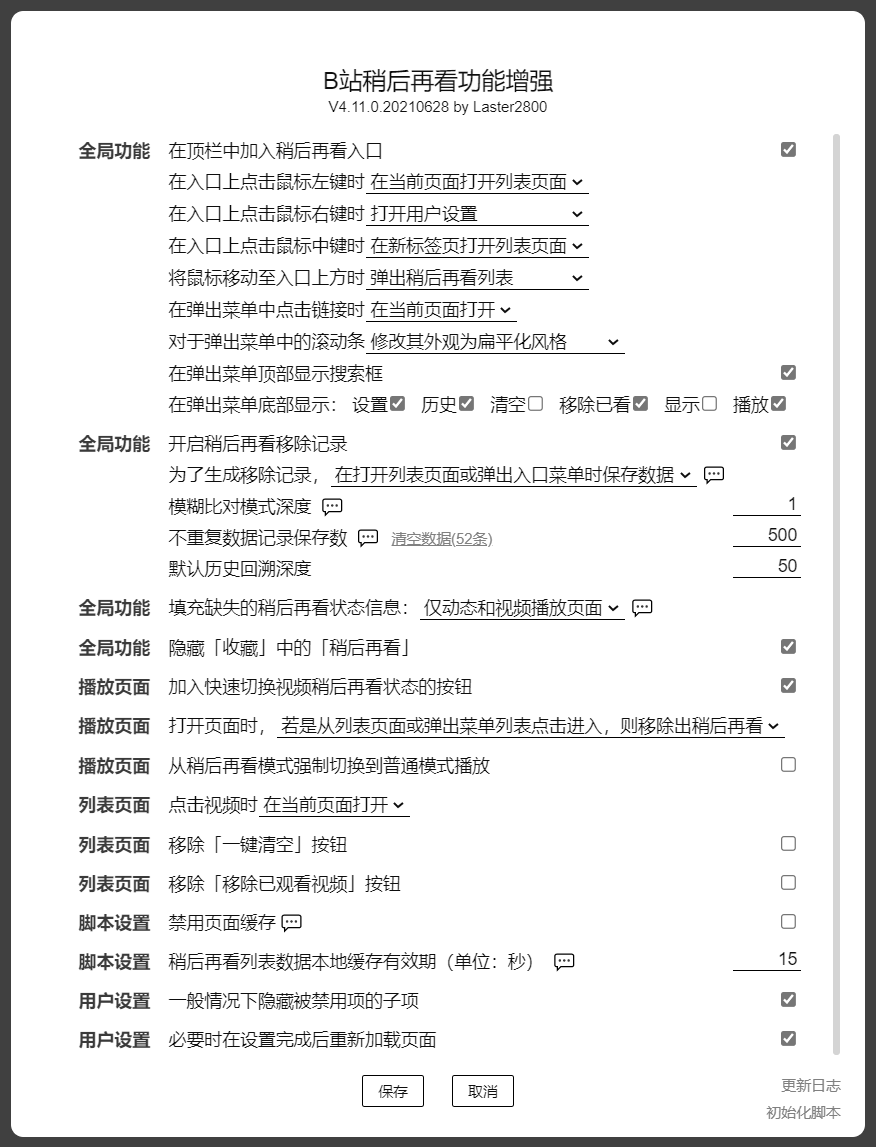
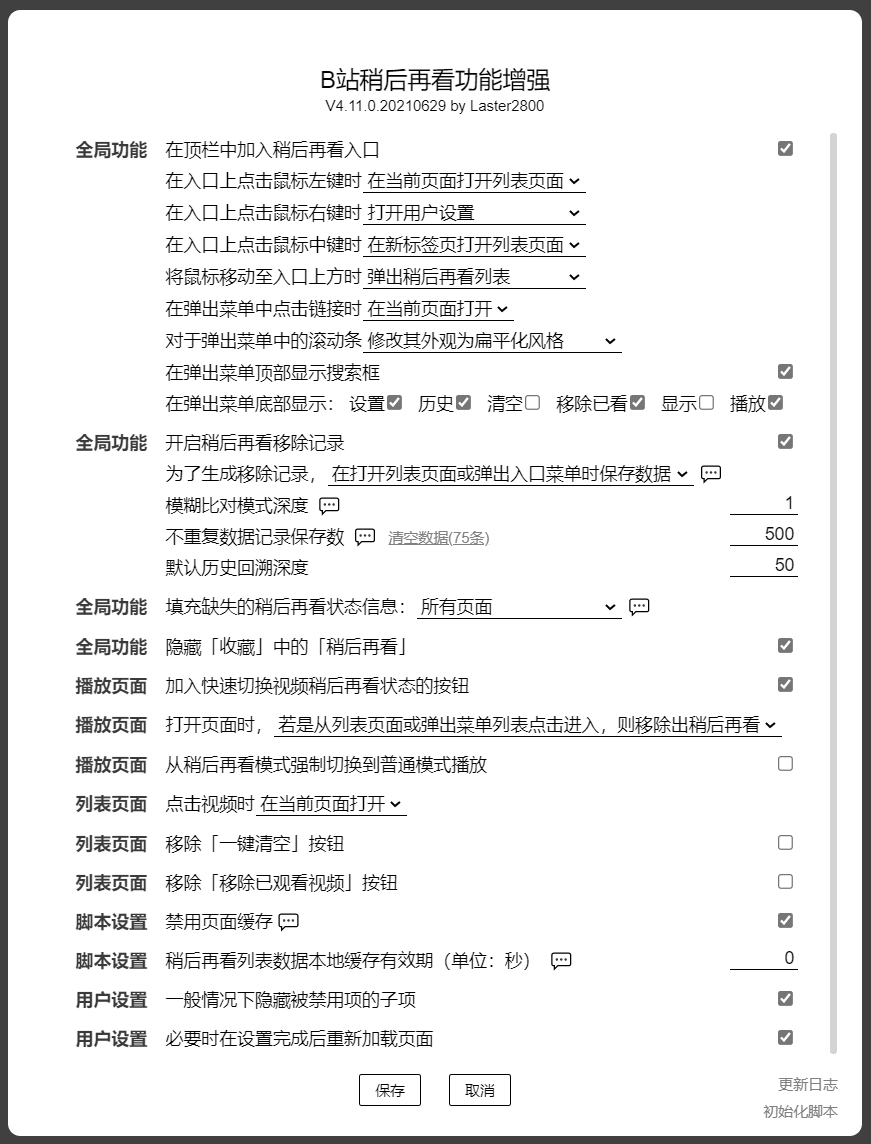
B站稍后再看功能增强 4.11.0.20210629
* API：升级至 V1.0，大幅优化元素等待逻辑。
* 脚本：优化部分监听器的处理。
* 脚本：优化脚本菜单运行流程。
* 脚本：优化更新处理机制。
* 代码：借助新版元素等待 API 进行大幅简化。

diff --git a/script/BilibiliWatchlaterPlus/BilibiliWatchlaterPlus.js b/script/BilibiliWatchlaterPlus/BilibiliWatchlaterPlus.js
@@ -1,6 +1,6 @@
 // ==UserScript==
 // @name            B站稍后再看功能增强
-// @version         4.11.0a.20210628
+// @version         4.11.0.20210629
 // @namespace       laster2800
 // @author          Laster2800
 // @description     与稍后再看功能相关，一切你能想到和想不到的功能
@@ -18,10 +18,10 @@
 // @exclude         *://t.bilibili.com/h5/dynamic/specification
 // @exclude         *://www.bilibili.com/page-proxy/game-nav.html
 // @exclude         /.*:\/\/.*:\/\/.*/
-// @require         https://greasyfork.org/scripts/409641-api/code/API.js?version=944165
+// @require         https://greasyfork.org/scripts/409641-userscriptapi/code/UserscriptAPI.js?version=945083
 // @grant           GM_addStyle
-// @grant           GM_xmlhttpRequest
 // @grant           GM_registerMenuCommand
+// @grant           GM_xmlhttpRequest
 // @grant           GM_setValue
 // @grant           GM_getValue
 // @grant           GM_deleteValue
@@ -374,8 +374,8 @@
     },
   }
 
-  /* global API */
-  const api = new API({
+  /* global UserscriptAPI */
+  const api = new UserscriptAPI({
     id: gm.id,
     label: GM_info.script.name,
     fadeTime: gm.const.fadeTime,
@@ -2166,7 +2166,7 @@
      */
     addHeaderButton() {
       const _self = this
-      api.wait.waitForElementLoaded('.user-con.signin').then(header => {
+      api.wait.waitQuerySelector('.user-con.signin').then(header => {
         const collect = header.children[4]
         const watchlater = document.createElement('div')
         watchlater.className = 'item'
@@ -2692,16 +2692,16 @@
 
       /**
        * 填充动态页稍后再看状态
+       * @async
        */
-      const fillWatchlaterStatus_dynamic = () => {
-        const execute = async root => {
-          let videos
-          if (api.dom.containsClass(root, 'video-container')) {
-            videos = [root]
-          } else {
-            videos = root.querySelectorAll('.video-container')
-          }
-          for (const video of videos) {
+      const fillWatchlaterStatus_dynamic = async () => {
+        api.wait.executeAfterElementLoaded({
+          selector: '.video-container',
+          base: await api.wait.waitQuerySelector('.feed-card'),
+          multiple: true,
+          repeat: true,
+          timeout: 0,
+          callback: async video => {
             if (!video._fillWatchlaterStatus) {
               try {
                 // 这个 video 未必是最后加入到页面的视频卡片，有可能是作为 Vue 处理过程中的中转元素
@@ -2721,37 +2721,22 @@
                 api.logger.error(e)
               }
             }
-          }
-        }
-
-        execute(document.body)
-        const ob = new MutationObserver(async records => {
-          for (const record of records) {
-            for (const addedNode of record.addedNodes) {
-              if (addedNode instanceof HTMLElement) {
-                execute(addedNode)
-              }
-            }
-          }
-        })
-        ob.observe(document.body, {
-          childList: true,
-          subtree: true,
+          },
         })
       }
 
       /**
        * 填充动态入口菜单
+       * @async
        */
-      const fillWatchlaterStatus_dynamicMenu = () => {
-        const execute = async root => {
-          let videos
-          if (api.dom.containsClass(root, 'list-item')) {
-            videos = [root]
-          } else {
-            videos = root.querySelectorAll('.list-item')
-          }
-          for (const video of videos) {
+      const fillWatchlaterStatus_dynamicMenu = async () => {
+        api.wait.executeAfterElementLoaded({
+          selector: '.list-item',
+          base: await api.wait.waitQuerySelector('.video-list'),
+          multiple: true,
+          repeat: true,
+          timeout: 0,
+          callback: async video => {
             if (!video._fillWatchlaterStatus) {
               try {
                 // 这个 video 未必是最后加入到页面的视频卡片，有可能是作为 Vue 处理过程中的中转元素
@@ -2771,22 +2756,7 @@
                 api.logger.error(e)
               }
             }
-          }
-        }
-
-        execute(document.body)
-        const ob = new MutationObserver(async records => {
-          for (const record of records) {
-            for (const addedNode of record.addedNodes) {
-              if (addedNode instanceof HTMLElement) {
-                execute(addedNode)
-              }
-            }
-          }
-        })
-        ob.observe(document.body, {
-          childList: true,
-          subtree: true,
+          },
         })
       }
 
@@ -2794,14 +2764,13 @@
        * 填充稍后再看状态（通用逻辑）
        */
       const fillWatchlaterStatus_main = () => {
-        const execute = async root => {
-          let videos
-          if (api.dom.containsClass(root, ['watch-later-video', 'watch-later-trigger', 'watch-later', 'w-later'])) {
-            videos = [root]
-          } else {
-            videos = root.querySelectorAll('.watch-later-video, .watch-later-trigger, .watch-later, .w-later')
-          }
-          for (const video of videos) {
+        api.wait.executeAfterElementLoaded({
+          selector: '.watch-later-video, .watch-later-trigger, .watch-later, .w-later',
+          base: document.body,
+          multiple: true,
+          repeat: true,
+          timeout: 0,
+          callback: async video => {
             if (!video._fillWatchlaterStatus) {
               try {
                 video._fillWatchlaterStatus = true
@@ -2818,22 +2787,7 @@
                 api.logger.error(e)
               }
             }
-          }
-        }
-
-        execute(document.body)
-        const ob = new MutationObserver(async records => {
-          for (const record of records) {
-            for (const addedNode of record.addedNodes) {
-              if (addedNode instanceof HTMLElement) {
-                execute(addedNode)
-              }
-            }
-          }
-        })
-        ob.observe(document.body, {
-          childList: true,
-          subtree: true,
+          },
         })
       }
     }
@@ -2869,16 +2823,14 @@
       }).then(async ({ atr, original }) => {
         const btn = document.createElement('label')
         btn.id = `${gm.id}-normal-video-btn`
-        const cb = document.createElement('input')
+        const cb = btn.appendChild(document.createElement('input'))
         cb.type = 'checkbox'
-        btn.appendChild(cb)
-        const text = document.createElement('span')
+        const text = btn.appendChild(document.createElement('span'))
         text.innerText = '稍后再看'
         btn.className = 'appeal-text'
         cb.onclick = function() { // 不要附加到 btn 上，否则点击时会执行两次
           processSwitch()
         }
-        btn.appendChild(text)
         atr.appendChild(btn)
 
         const aid = await _self.method.getAid()
@@ -3017,42 +2969,19 @@
       try {
         let autoRemoveButton = null
         if (gm.config.autoRemove != Enums.autoRemove.absoluteNever) {
-          autoRemoveButton = await api.wait.waitForElementLoaded('#gm-auto-remove')
+          autoRemoveButton = await api.wait.waitQuerySelector('#gm-auto-remove')
         }
-        const watchLaterList = await api.wait.waitForElementLoaded('.watch-later-list')
-
-        // 如果打开列表页面后，立即切换到其他标签页，那么执行到此处时，（部分或全部）列表项已被加载出来
-        // 此时，需要对这些意外加载出来的列表项进行处理
-        const links = watchLaterList.querySelectorAll('.list-box a:not([class=user])') // 排除指向 UP 主的链接
-        if (links.length > 0) {
-          setTimeout(() => {
-            for (const link of links) {
-              processLink(link, autoRemoveButton)
-            }
-          })
-        }
-
-        // 正常情况下，执行到此处时，所有列表项均未加载出来，监听并进行处理
-        // 即使是前面所说的非正常情况，也继续监听，避免出现意外
-        const ob = new MutationObserver(async (records, observer) => {
-          for (const record of records) {
-            for (const addedNode of record.addedNodes) {
-              if (api.dom.containsClass(addedNode, 'list-box')) {
-                const listBox = addedNode
-                const list = listBox.firstElementChild.children
-                for (let i = 0; i < list.length; i++) {
-                  const links = list[i].querySelectorAll('a:not([class=user])') // 排除指向 UP 主的链接
-                  for (const link of links) {
-                    processLink(link, autoRemoveButton)
-                  }
-                }
-                observer.disconnect()
-                return
-              }
-            }
-          }
+        const watchLaterList = await api.wait.waitQuerySelector('.watch-later-list')
+        api.wait.executeAfterElementLoaded({
+          selector: '.list-box a:not([class=user])',
+          base: watchLaterList,
+          multiple: true,
+          repeat: true,
+          timeout: 0,
+          callback: link => {
+            processLink(link, autoRemoveButton)
+          },
         })
-        ob.observe(watchLaterList, { childList: true })
       } catch (e) {
         api.logger.error(gm.error.DOM_PARSE)
         api.logger.error(e)
@@ -3199,7 +3128,7 @@
     async adjustWatchlaterListUI() {
       const _self = this
       /** @type {HTMLElement} */
-      const r_con = await api.wait.waitForElementLoaded('.watch-later-list.bili-wrapper header .r-con')
+      const r_con = await api.wait.waitQuerySelector('.watch-later-list.bili-wrapper header .r-con')
       // 页面上本来就存在的「全部播放」按钮不要触发重定向
       const setPlayAll = el => {
         el.href = gm.url.page_watchlaterPlayAll
@@ -3211,14 +3140,10 @@
         setPlayAll(playAll)
       } else {
         const ob = new MutationObserver((records, observer) => {
-          for (const record of records) {
-            if (record.attributeName == 'href') {
-              setPlayAll(record.target)
-              observer.disconnect()
-            }
-          }
+          setPlayAll(records[0].target)
+          observer.disconnect()
         })
-        ob.observe(playAll, { attributes: true })
+        ob.observe(playAll, { attributeFilter: ['href'] })
       }
       // 在列表页面加入「移除记录」
       if (gm.config.removeHistory) {
@@ -3278,10 +3203,10 @@
      * 隐藏「收藏」中的「稍后再看」
      */
     async hideWatchlaterInCollect() {
-      api.wait.waitForElementLoaded('.user-con .mini-favorite').then(fav => {
+      api.wait.waitQuerySelector('.user-con .mini-favorite').then(fav => {
         const collect = fav.parentNode
         const process = function() {
-          api.wait.waitForElementLoaded('[role=tooltip] .tab-item [title=稍后再看]').then(node => {
+          api.wait.waitQuerySelector('[role=tooltip] .tab-item [title=稍后再看]').then(node => {
             node.parentNode.style.display = 'none'
             collect.removeEventListener('mouseover', process) // 确保移除后再手动解绑
           }).catch(() => {}) // 有时候鼠标经过收藏也没弹出来，不知道什么原因，就不报错了

diff --git a/script/BilibiliWatchlaterPlus/changelog.md b/script/BilibiliWatchlaterPlus/changelog.md
@@ -4,14 +4,17 @@
 
 ## V4.11
 
-1. 脚本：优化脚本菜单运行流程。
-2. 脚本：优化更新处理机制。
-3. 移除记录：推倒重做，大幅优化存读及处理逻辑。
-4. 顶栏入口：优化菜单弹出逻辑，让数据以最快的速度显示出来，且避免误弹出及特定情况下无法关闭的问题。
-5. 填充缺失状态信息：支持动态入口菜单。
-6. 重定向：优化错误处理流程。
-7. 功能移除：功能性更新后打开设置页面。现在总是强制打开功能性更新设置。
-8. UI：文本及排版优化。
+1. API：升级至 V1.0，大幅优化元素等待逻辑。详见 [UserscriptAPI 更新日志](https://gitee.com/liangjiancang/userscript/blob/master/lib/UserscriptAPI/changelog.md)。
+2. 移除记录：推倒重做，大幅优化存读及处理逻辑。
+3. 顶栏入口：优化菜单弹出逻辑，让数据以最快的速度显示出来，且避免误弹出及特定情况下无法关闭的问题。
+4. 填充缺失状态信息：支持动态入口菜单。
+5. 重定向：优化错误处理流程。
+6. 功能移除：功能性更新后打开设置页面。现在总是强制打开功能性更新设置。
+7. 脚本：优化部分监听器的处理。
+8. 脚本：优化脚本菜单运行流程。
+9. 脚本：优化更新处理机制。
+10. 代码：借助新版元素等待 API 进行大幅简化。
+11. UI：文本及排版优化。
 
 ## V4.10
 
@@ -64,7 +67,7 @@
 
 ## V4.5
 
-1. API：将 `API` 类剥离出来，作为一个通用代码库使用。以后关于 API 的更新说明见 [UserscriptAPI.js 提交记录](https://gitee.com/liangjiancang/userscript/commits/master/script/lib/UserscriptAPI.js)。
+1. API：将 `API` 类剥离出来，作为一个通用代码库使用。以后关于 API 的更新说明见 [UserscriptAPI.js 更新日志](https://gitee.com/liangjiancang/userscript/blob/master/lib/UserscriptAPI/changelog.md)。
 
 ## V4.4
 
